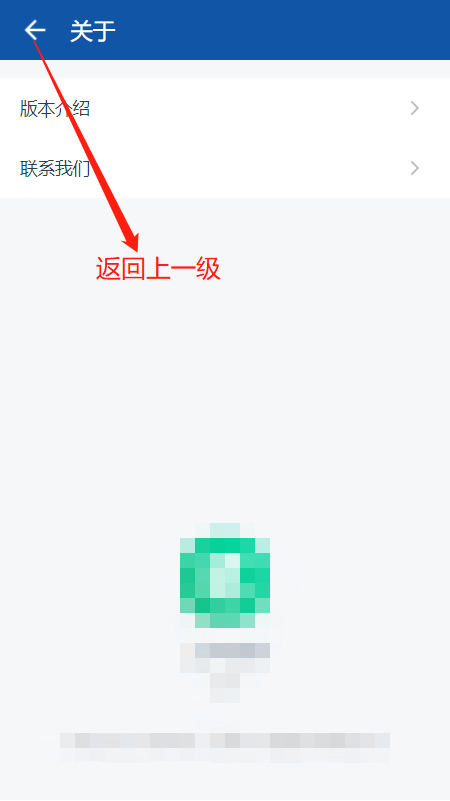
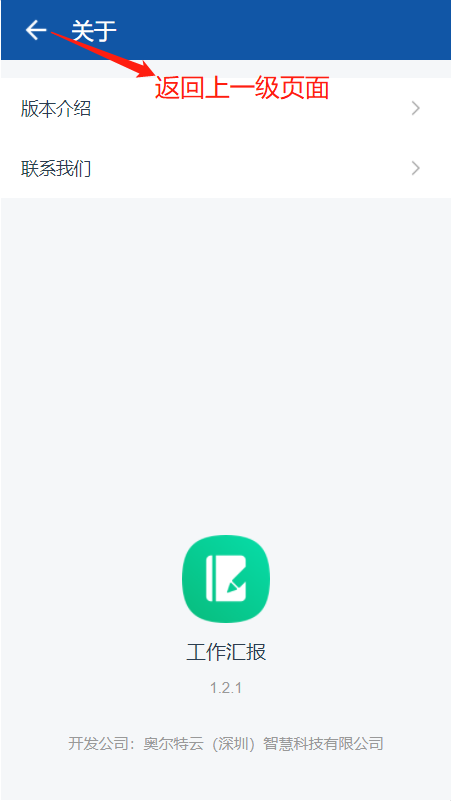
feat: 用户手册-工作汇报

diff --git a/docs/guide/docs/appHelpGuide/workReportHelpDocs.md b/docs/guide/docs/appHelpGuide/workReportHelpDocs.md
@@ -9,13 +9,26 @@ title: 工作汇报
 #### 开始使用 
 
 ##### 应用首页
-
-
+##### 1. 导航栏图标依次是搜索、更多以及退出应用。
+##### 2. 点击切换（我发出的、收到的列表）
+##### 3. 右下图标是新建汇报
 ![首页](./img/workreport/home.jpg)
 
-##### 关于界面
-
+#### 关于界面
 ![关于](./img/workreport/about.jpg)
 
+#### 新建汇报
+##### 1. 可以选择任意类型进行创建
+![新建](./img/workreport/add1.jpg)
+##### 2. 进入新建界面输入一系列内容，可选择时间，上传图片、附件。输入完内容可点击右上角进行提交
+![新建](./img/workreport/add2.jpg)
+![新建](./img/workreport/add3.jpg)
 
-#####
+#### 汇报详情
+##### 1. 点击图片可放大查看，点击附件进行下载
+![详情](./img/workreport/detail.jpg)
+##### 2. 点击阅读人数查看具体情况，底部可进行评论
+![详情](./img/workreport/detail1.jpg)
+![详情](./img/workreport/detail2.jpg)
+
+
